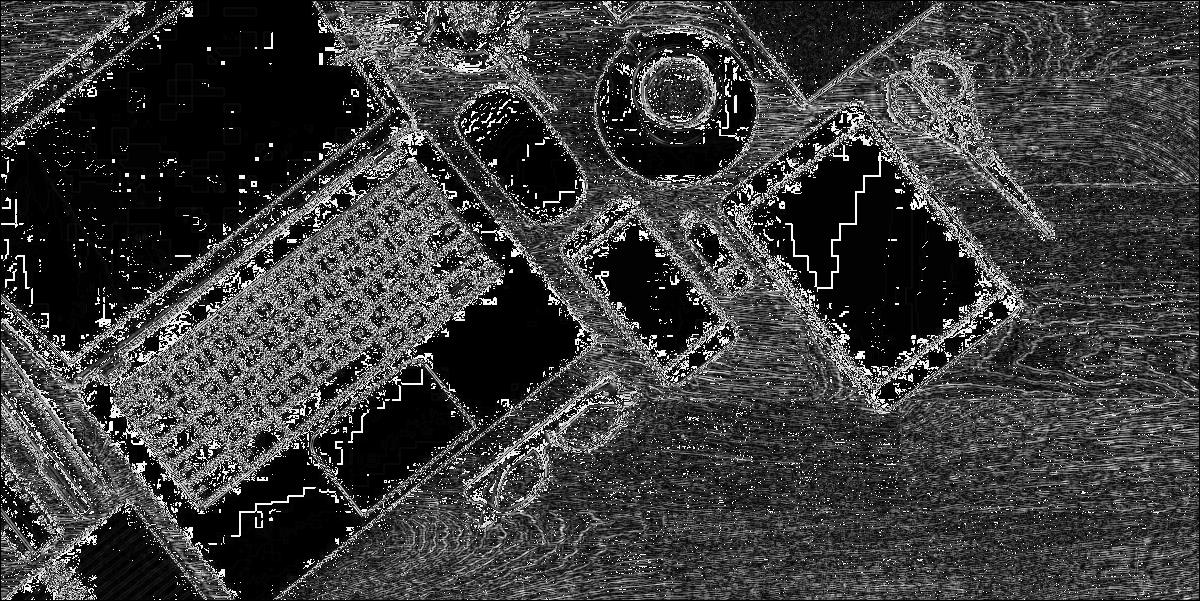
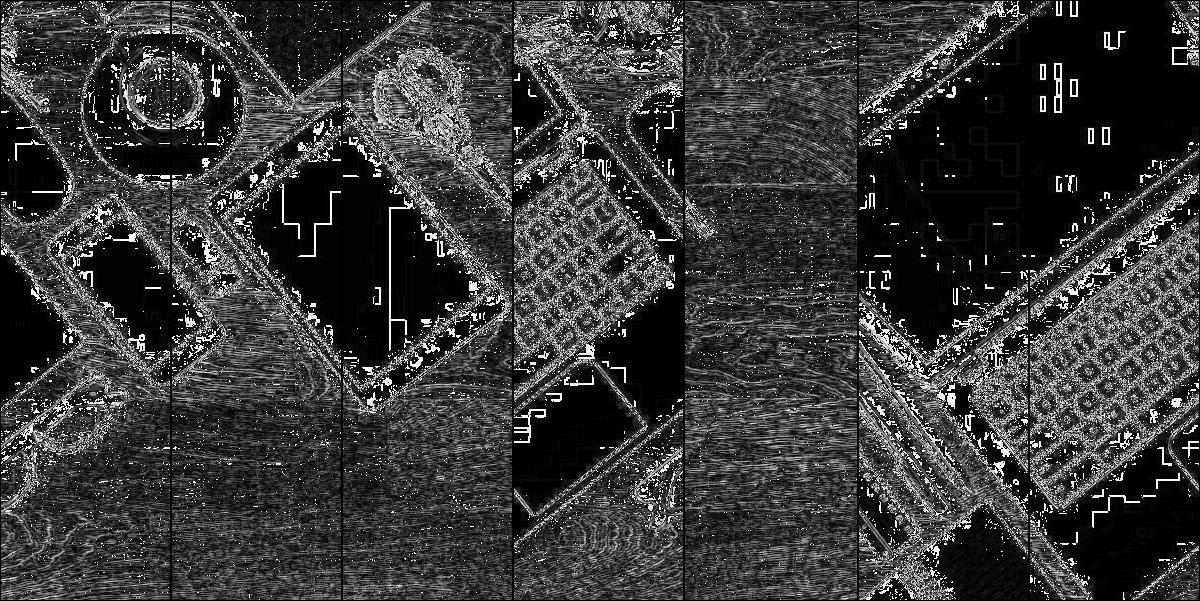
Punto 4 - Aplicacion de Colas entre ServerSobelThread y ServerSobel
Falta:
- Quitar bordes de imagenes sobel
- Enviar la imagen sobel en un objeto con los datos del worker para reordenarlas cuando llegan todas.

diff --git a/Practico2/src/main/java/Punto4/ServerSobel.java b/Practico2/src/main/java/Punto4/ServerSobel.java
@@ -5,6 +5,10 @@ import java.awt.image.BufferedImage;
 import java.io.ByteArrayInputStream;
 import java.io.ByteArrayOutputStream;
 import java.io.IOException;
+import java.io.ObjectInputStream;
+import java.io.ObjectOutputStream;
+import java.net.ServerSocket;
+import java.net.Socket;
 import java.rmi.AccessException;
 import java.rmi.NotBoundException;
 import java.rmi.RemoteException;
@@ -22,9 +26,13 @@ import javax.imageio.ImageIO;
 import org.slf4j.Logger;
 import org.slf4j.LoggerFactory;
 
+import com.google.gson.Gson;
 import com.rabbitmq.client.Channel;
 import com.rabbitmq.client.Connection;
 import com.rabbitmq.client.ConnectionFactory;
+import com.rabbitmq.client.DeliverCallback;
+
+import punto2.syn.with.DepositoThread;
 
 public class ServerSobel implements RemoteInt {
 
@@ -33,16 +41,45 @@ public class ServerSobel implements RemoteInt {
 	private final static Logger log = LoggerFactory.getLogger(ServerSobel.class);
 	private Map<Integer, RemoteInt> workerConections; // par PuertoWorker-> RI 
 	private ArrayList<WorkerSobel> workers;
+	private ArrayList<BufferedImage> finishedImgs;
+	private ConnectionFactory connectionFactory;
+	private Connection queueConnection;
+	private Channel queueChannel;
+
 	
 	public ServerSobel(String ip, int port, ArrayList<WorkerSobel> workers) throws NotBoundException, IOException, InterruptedException {
 		this.port = port;
 		this.workerConections = new HashMap<Integer,RemoteInt>();
 		this.workers= workers;
+		this.finishedImgs = new ArrayList<BufferedImage>();
 		this.startSobelRMIforClient();
 		this.startWorkerConections();
+		configureConnectionToRabbit();
 	}
 	
+	private void configureConnectionToRabbit() {
+		try {
+			this.connectionFactory = new ConnectionFactory();
+			this.connectionFactory.setHost("localhost");
+			this.connectionFactory.setUsername("admin");
+			this.connectionFactory.setPassword("admin");
+			this.queueConnection = this.connectionFactory.newConnection();
+			this.queueChannel = this.queueConnection.createChannel();
+			this.queueChannel.queueDeclare("QUEUE_SOBEL", true, false, false, null);
+			this.queueChannel.basicConsume("QUEUE_SOBEL", true, recibirOutImages, consumerTag -> {});
+			
+		} catch (IOException e) {e.printStackTrace();
+		} catch (TimeoutException e) {e.printStackTrace();
+		}	
+	}
 	
+	private DeliverCallback recibirOutImages = (consumerTag, delivery) -> {
+        byte[] imgQueue = delivery.getBody();
+        System.out.println("ServerSobel agarro una imagen de la cola..");
+        BufferedImage imgOut = ImageIO.read(new ByteArrayInputStream(imgQueue));
+        this.finishedImgs.add(imgOut);
+    };
+    
 	private void startSobelRMIforClient() throws RemoteException {
 		
 		Registry server = LocateRegistry.createRegistry(this.port);
@@ -76,7 +113,7 @@ public class ServerSobel implements RemoteInt {
 	}
 	
 	
-	public byte[] sobelDistribuido(byte[] image) throws IOException, InterruptedException {
+	public byte[] sobelDistribuido(byte[] image) throws IOException, InterruptedException, NotBoundException, ClassNotFoundException {
 		log.info("--INGRESO A PROCESO 'SOBELDISTRIBUIDO' ENTRE CLIENTE Y SERVERSOBEL  --");
 		
 		BufferedImage inImg = ImageIO.read(new ByteArrayInputStream(image));// imagen que recibo de SobelClient
@@ -92,34 +129,28 @@ public class ServerSobel implements RemoteInt {
 		int w = inImg.getWidth(); 
 		int h = inImg.getHeight();
 		outImg = new BufferedImage(w, h, BufferedImage.TYPE_INT_RGB);
-		Graphics unionImages = outImg.getGraphics();
 		int qParts= 0;
 		while (qParts < this.workers.size() ) {// una parte por cada worker
 			int proxSectorSize = currentSector+(2*qSector);
-			System.out.println("si "+proxSectorSize+" es mayor que "+inImg.getWidth()+"??");
 			if (proxSectorSize>inImg.getWidth()) {// cuando la division en partes entre los workers no da exacta, se asigna el resto al ultimo Worker
 				int proxSector = currentSector+qSector;
 			    int untilImageEnd = qSector+(inImg.getWidth() - proxSector);
-				System.out.println("Si es, entonces se avanza "+ untilImageEnd);
 			    inParcialImg = inImg.getSubimage(currentSector, inImg.getMinY(), untilImageEnd, inImg.getHeight()); //funcion para partir la imagen.			
 			}else {// caso normal
 				inParcialImg = inImg.getSubimage(currentSector, inImg.getMinY(), qSector, inImg.getHeight()); 
 			}
+			
+			SobelRequest request = new SobelRequest(this.workers.get(currentWorker).getIdWorker(),
+													this.workers.get(currentWorker).getPortRMI(), 
+													qSector, 
+													currentSector, 
+													inParcialImg,
+													workerConections.get(this.workers.get(currentWorker).getPortRMI()));
+			
+			ServerSobelThread sst = new ServerSobelThread(currentWorker,"QUEUE_SOBEL",this.queueChannel, request);
+			Thread sstThread = new Thread(sst);
+			sstThread.start();
 
-			//llamo al servicio por RMI
-			ByteArrayOutputStream imgSend = new ByteArrayOutputStream();
-			ImageIO.write(inParcialImg, "jpg", imgSend);
-			byte[] imgResult = workerConections.get(this.workers.get(currentWorker).getPortRMI()).sobelDistribuido(imgSend.toByteArray());
-			outParcialImg = ImageIO.read(new ByteArrayInputStream(imgResult));
-			
-			/* guarda las imagenes partidas CON SOBEL
-			outputParcialPath = nameImage + "-SobelPart"+actualSector +extensionImage;
-			FileOutputStream outParcialFile = new FileOutputStream(outputParcialPath);
-			ImageIO.write(outParcialImg, "JPG", outParcialFile);
-			 */
-			
-			unionImages.drawImage(outParcialImg, currentSector, 0, null); 
-				
 			qParts++;
 			currentSector+= qSector;
 			currentWorker++;
@@ -128,6 +159,9 @@ public class ServerSobel implements RemoteInt {
 			}
 		}
 		
+		waitingImagesSobel();
+		outImg = joinImages(inImg);
+		
 		ByteArrayOutputStream imgResult = new ByteArrayOutputStream();
 		ImageIO.write(outImg, "jpg", imgResult);
 		
@@ -135,7 +169,33 @@ public class ServerSobel implements RemoteInt {
 	}
 	
 	
+	public BufferedImage joinImages(BufferedImage inImg) {	
+		int w = inImg.getWidth();
+		int h = inImg.getHeight();
+		BufferedImage outImg = new BufferedImage(w,h,BufferedImage.TYPE_INT_RGB);
+		Graphics unionImages = outImg.getGraphics();
+		int sectorSize = 0;
+		for (int i=0; i<this.finishedImgs.size();i++) {
+			unionImages.drawImage(this.finishedImgs.get(i), sectorSize, 0, null);
+			sectorSize+=this.finishedImgs.get(i).getWidth();
+		}
+		return outImg;
+	}
+	
 
+	public void waitingImagesSobel() throws IOException, ClassNotFoundException {
+		boolean salir = false;
+		while (!salir) {
+			System.out.println("largo de finishedImgs: " + this.finishedImgs.size());
+			if (this.finishedImgs.size()==this.workerConections.size()) {
+				System.out.println("finishedImgs ya tiene todas las partes de la imagen resuletas en sobel.");
+				salir = true;
+			}
+		}
+
+	}
+
+	
 	public String proceso() throws IOException, InterruptedException {
 		return "procesoRMI en ServerSobel (Dispatcher) funcionando";
 	}

diff --git a/Practico2/src/main/java/Punto4/ServerSobelThread.java b/Practico2/src/main/java/Punto4/ServerSobelThread.java
@@ -1,13 +1,24 @@
 package Punto4;
 
 import java.awt.image.BufferedImage;
+import java.io.BufferedReader;
 import java.io.ByteArrayInputStream;
 import java.io.ByteArrayOutputStream;
+import java.io.FileOutputStream;
 import java.io.IOException;
+import java.io.InputStreamReader;
+import java.io.ObjectInputStream;
+import java.io.ObjectOutputStream;
+import java.io.PrintWriter;
 import java.net.Socket;
 import java.net.UnknownHostException;
+import java.rmi.NotBoundException;
+import java.util.ArrayList;
 
 import javax.imageio.ImageIO;
+
+import com.rabbitmq.client.Channel;
+import com.rabbitmq.client.MessageProperties;
 
 import ch.qos.logback.classic.Logger;
 
@@ -18,54 +29,44 @@ public class ServerSobelThread implements Runnable{
 	private int portRMI;
 	private Logger log;
 	private SobelRequest request;
+	private ArrayList<BufferedImage> partsImg;
+
+	private String queueName;
+	private Channel queueChannel;
 	
-	public ServerSobelThread(int id, String ipRMI, int portRMI,String QueueRespones , SobelRequest request) throws UnknownHostException, IOException{
-		this.id = id;
-		this.ipRMI = ipRMI;
-		this.portRMI = portRMI;
+	public ServerSobelThread(int idT, String queueName,Channel queueChannel, SobelRequest request) throws NotBoundException, IOException, InterruptedException {
+		this.id = idT;
 		this.request = request;
+		this.queueName = queueName;
+		this.queueChannel = queueChannel;
 	}
 	
 	public void run() {
+		//llamo al servicio por RMI
+		try {
+			ByteArrayOutputStream imgSend = new ByteArrayOutputStream();
+			ImageIO.write(this.request.getInParcialImg(), "jpg", imgSend);
+			byte[] imgResult = request.getRI().sobelDistribuido(imgSend.toByteArray());
+			BufferedImage outParcialImg = ImageIO.read(new ByteArrayInputStream(imgResult));
+	
+			this.queueChannel.basicPublish("", this.queueName, MessageProperties.PERSISTENT_TEXT_PLAIN, imgResult);
+			
+			//grabo en carpeta el resultado
+			String outputParcialPath = "images/sobelPart"+this.id+".JPG";
+			FileOutputStream outParcialFile = new FileOutputStream(outputParcialPath);
+			ImageIO.write(outParcialImg, "JPG", outParcialFile);
+			System.out.println("Grabo imagen en el thread "+ this.id);
+			 
+		} catch (IOException e) {e.printStackTrace();
+		} catch (InterruptedException e) {e.printStackTrace();
+		} catch (NotBoundException e) {e.printStackTrace();
+		} catch (ClassNotFoundException e) {e.printStackTrace();
+		}
 		
+		
+
+		 
 	}
-	
-
-	/*
-	BufferedImage inImg;
-	
-	int sectorSiz
-	  getSubimage(actualSector, oriImg.getMinY(), imageEnd, oriImg.getHeight()); //funcion para partir la imagen.			
-	}else {// caso normal
-		inImg = oriImg.getSubimage(actualSector, oriImg.getMinY(), qSector, oriImg.getHeight()); 
-	}e= actualSector+qSector;
-	if (sectorSize>oriImg.getWidth()) {
-		int imageEnd = oriImg.getWidth() - sectorSize;
-		inImg = oriImg.
-	
-		ByteArrayOutputStream imgSend = new ByteArrayOutputStream();
-		ImageIO.write(inImg, "JPG", imgSend);
-		byte[] imgPartResult = ri.sobel(imgSend.toByteArray());
-		outImg = ImageIO.read(new ByteArrayInputStream(imgPartResult));
-	*/
-	
-	/* PROBANDO UNION DE DOS IMAGENES. BORRAR LUEGO
-	  BufferedImage inImg1 = inImg.getSubimage(inImg.getMinX(), inImg.getMinY(), 300, 300);
-	BufferedImage inImg2 = inImg.getSubimage(inImg.getMinX(), inImg.getMinY(), 300, 300);
-	
-	int w = Math.max(image.getWidth(), overlay.getWidth()); 
-	int h = Math.max(image.getHeight(), overlay.getHeight());
-
-	BufferedImage ima = new BufferedImage();
-	Graphics g = ima.getGraphics(); 
-	g.drawImage(image, 0, 0, null); 
-	g.drawImage(overlay, 0, 0, null);*/
-	
-	//--------- proceso --------------------------
-	
-	// inImg = inImg.getSubimage(inImg.getMinX(), inImg.getMinY(), 300, 300); //funcion para partir la imagen.
-
-
 
 
 

diff --git a/Practico2/src/main/java/Punto4/SobelRequest.java b/Practico2/src/main/java/Punto4/SobelRequest.java
@@ -5,24 +5,30 @@ import java.awt.image.BufferedImage;
 public class SobelRequest {
 
 		private int idWorker;
-		private int qSection;
-		private int actualSection;
-		private BufferedImage inImg;		
+		private int qSector;
+		private int currentSector;
+		private int portWorker;
+		private BufferedImage inParcialImg;		
+		private RemoteInt ri;
 		//private BufferedImage outImg;				
 		
-		public SobelRequest (int idWorker, int qSection, int actualSection, BufferedImage inImg) {
+		public SobelRequest (int idWorker,int portWorker, int qSector, int currentSector, BufferedImage inParcialImg, RemoteInt ri) {
 			this.idWorker = idWorker;
-			this.qSection = qSection;
-			this.actualSection = actualSection;
-			this.inImg = inImg;
+			this.portWorker = portWorker;
+			this.qSector = qSector;
+			this.currentSector = currentSector;
+			this.inParcialImg = inParcialImg;
+			this.ri = ri;
 		}
 
 		public int getIdWorker() {return this.idWorker;}
-		public int getqSection() {return this.qSection;}
-		public int getActualSection() {return this.actualSection;}
-		public BufferedImage getInImg() {return this.inImg;}
+		public int getPortWorker() {return this.portWorker;}
+		public int getqSection() {return this.qSector;}
+		public int getActualSection() {return this.currentSector;}
+		public BufferedImage getInParcialImg() {return this.inParcialImg;}
+		public RemoteInt getRI() {return this.ri;}
+		
 		//public BufferedImage getOutImg() {return this.outImg;}
-
 		//public void setOutImg(BufferedImage outImg) {this.outImg = outImg;}
 
 }

diff --git a/Practico2/src/main/java/Punto4/SobelClient.java b/Practico2/src/main/java/Punto4/SobelClient.java
@@ -35,7 +35,7 @@ public class SobelClient {
 	}
 	
 	
-	public String sobelCall(String pathImage, String tipoSobel) throws IOException, NotBoundException, InterruptedException, TimeoutException {		
+	public String sobelCall(String pathImage, String tipoSobel) throws IOException, NotBoundException, InterruptedException, TimeoutException, ClassNotFoundException {		
 
 		long start = System.currentTimeMillis(); // INICIO tiempo tarea
 		
@@ -153,7 +153,7 @@ public class SobelClient {
 	
 	//---------------------------------------------------------------------------------------------------------------------------------
 	
-	public static void main(String[] args) throws IOException, NotBoundException, InterruptedException, TimeoutException {
+	public static void main(String[] args) throws IOException, NotBoundException, InterruptedException, TimeoutException, ClassNotFoundException {
 
 		int portServer = 80;
 		SobelClient sobel1  = new SobelClient(portServer);

diff --git a/Practico2/src/main/java/Punto4/WorkerSobel.java b/Practico2/src/main/java/Punto4/WorkerSobel.java
@@ -3,6 +3,7 @@ import java.awt.image.BufferedImage;
 import java.io.ByteArrayInputStream;
 import java.io.ByteArrayOutputStream;
 import java.io.IOException;
+import java.rmi.NotBoundException;
 import java.rmi.RemoteException;
 import java.rmi.registry.LocateRegistry;
 import java.rmi.registry.Registry;
@@ -61,7 +62,7 @@ public class WorkerSobel implements RemoteInt {
 		return "proceso RMI en Worker "+ this.getIdWorker()+" funcionando";
 	}
 	
-	public byte[] sobelDistribuido(byte[] inImgBytes) throws IOException, InterruptedException {
+	public byte[] sobelDistribuido(byte[] inImgBytes) throws IOException, InterruptedException, NotBoundException, ClassNotFoundException {
 		BufferedImage inImg = ImageIO.read(new ByteArrayInputStream(inImgBytes));
 		int i, j;
 		int  max= 0, min=99999;

diff --git a/Practico2/src/main/java/Punto4/RemoteInt.java b/Practico2/src/main/java/Punto4/RemoteInt.java
@@ -3,12 +3,13 @@ package Punto4;
 import java.awt.image.BufferedImage;
 import java.io.ByteArrayOutputStream;
 import java.io.IOException;
+import java.rmi.NotBoundException;
 import java.rmi.Remote;
 import java.rmi.RemoteException;
 import java.util.ArrayList;
 
 public interface RemoteInt extends Remote{
 	
-	public byte[] sobelDistribuido (byte[] image) throws IOException, InterruptedException;
+	public byte[] sobelDistribuido (byte[] image) throws IOException, InterruptedException, NotBoundException, ClassNotFoundException;
 	public String proceso () throws IOException, InterruptedException;
 }
